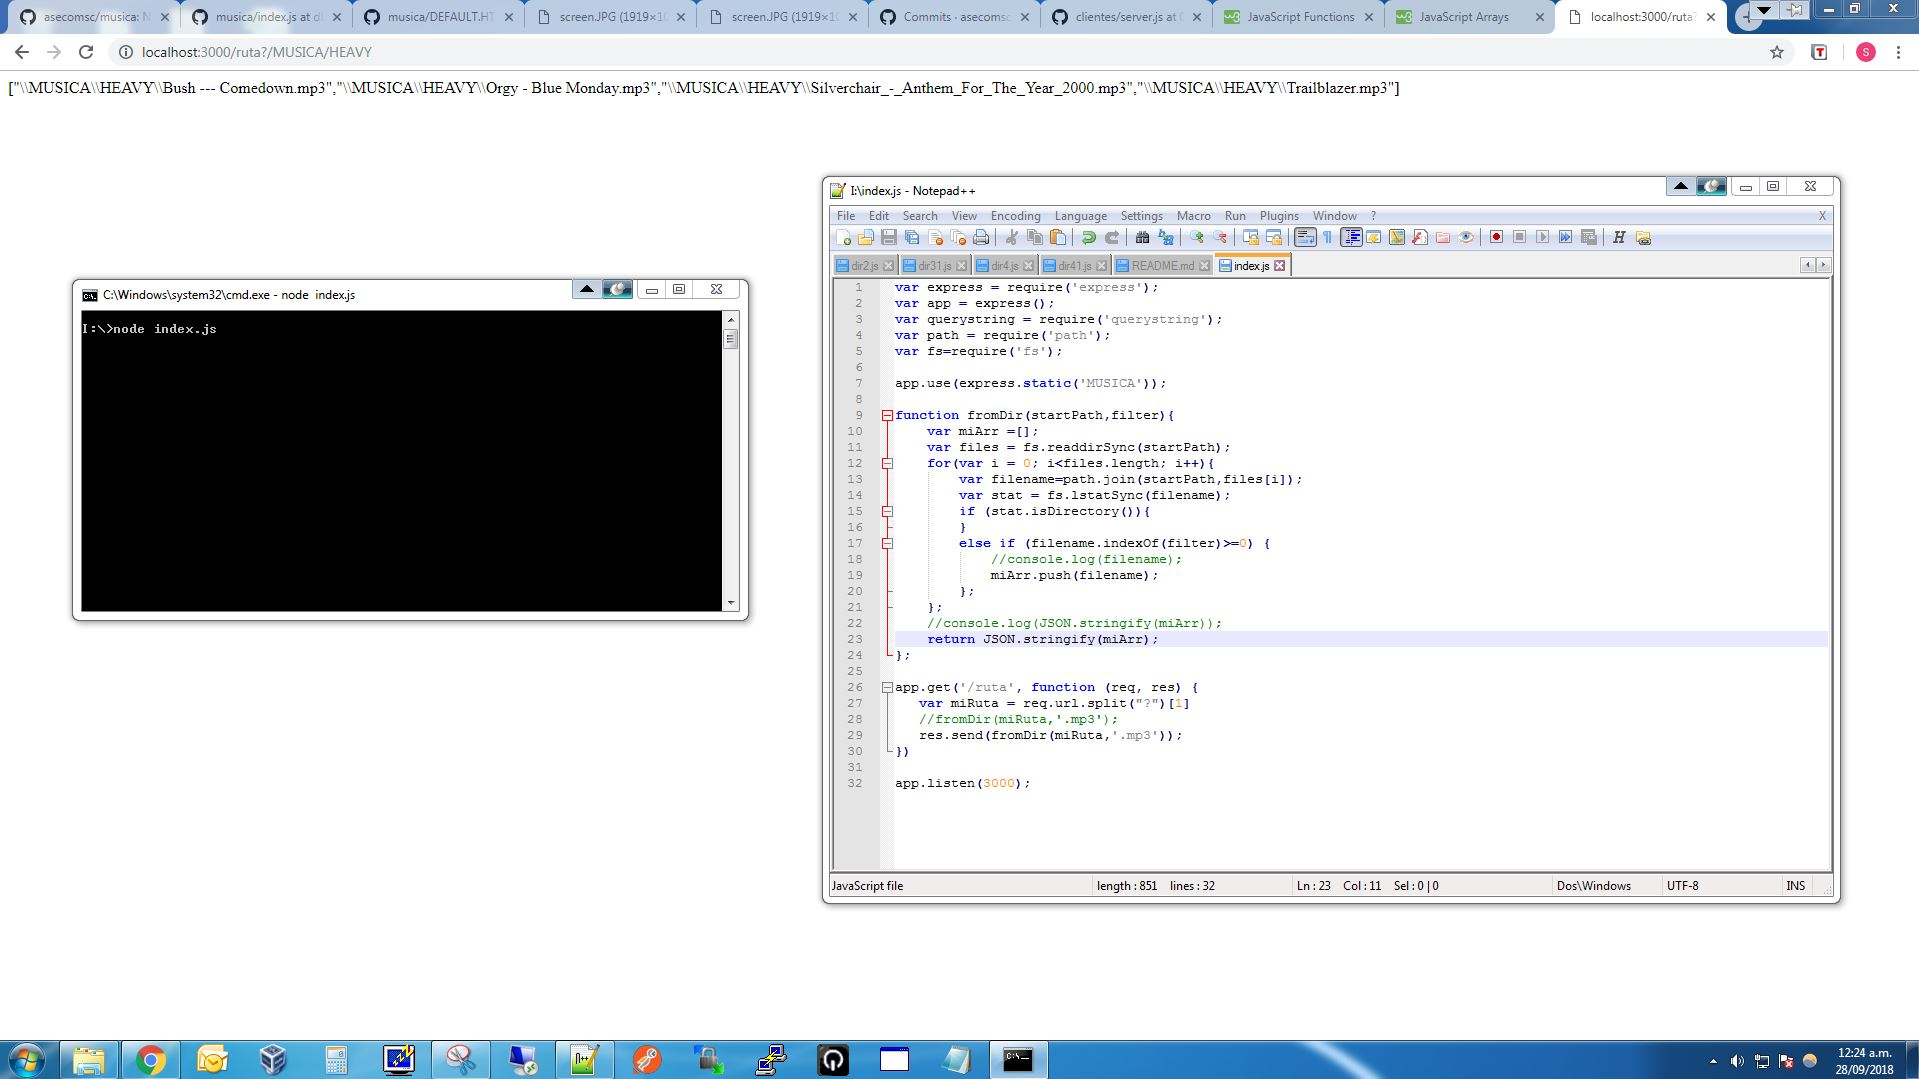
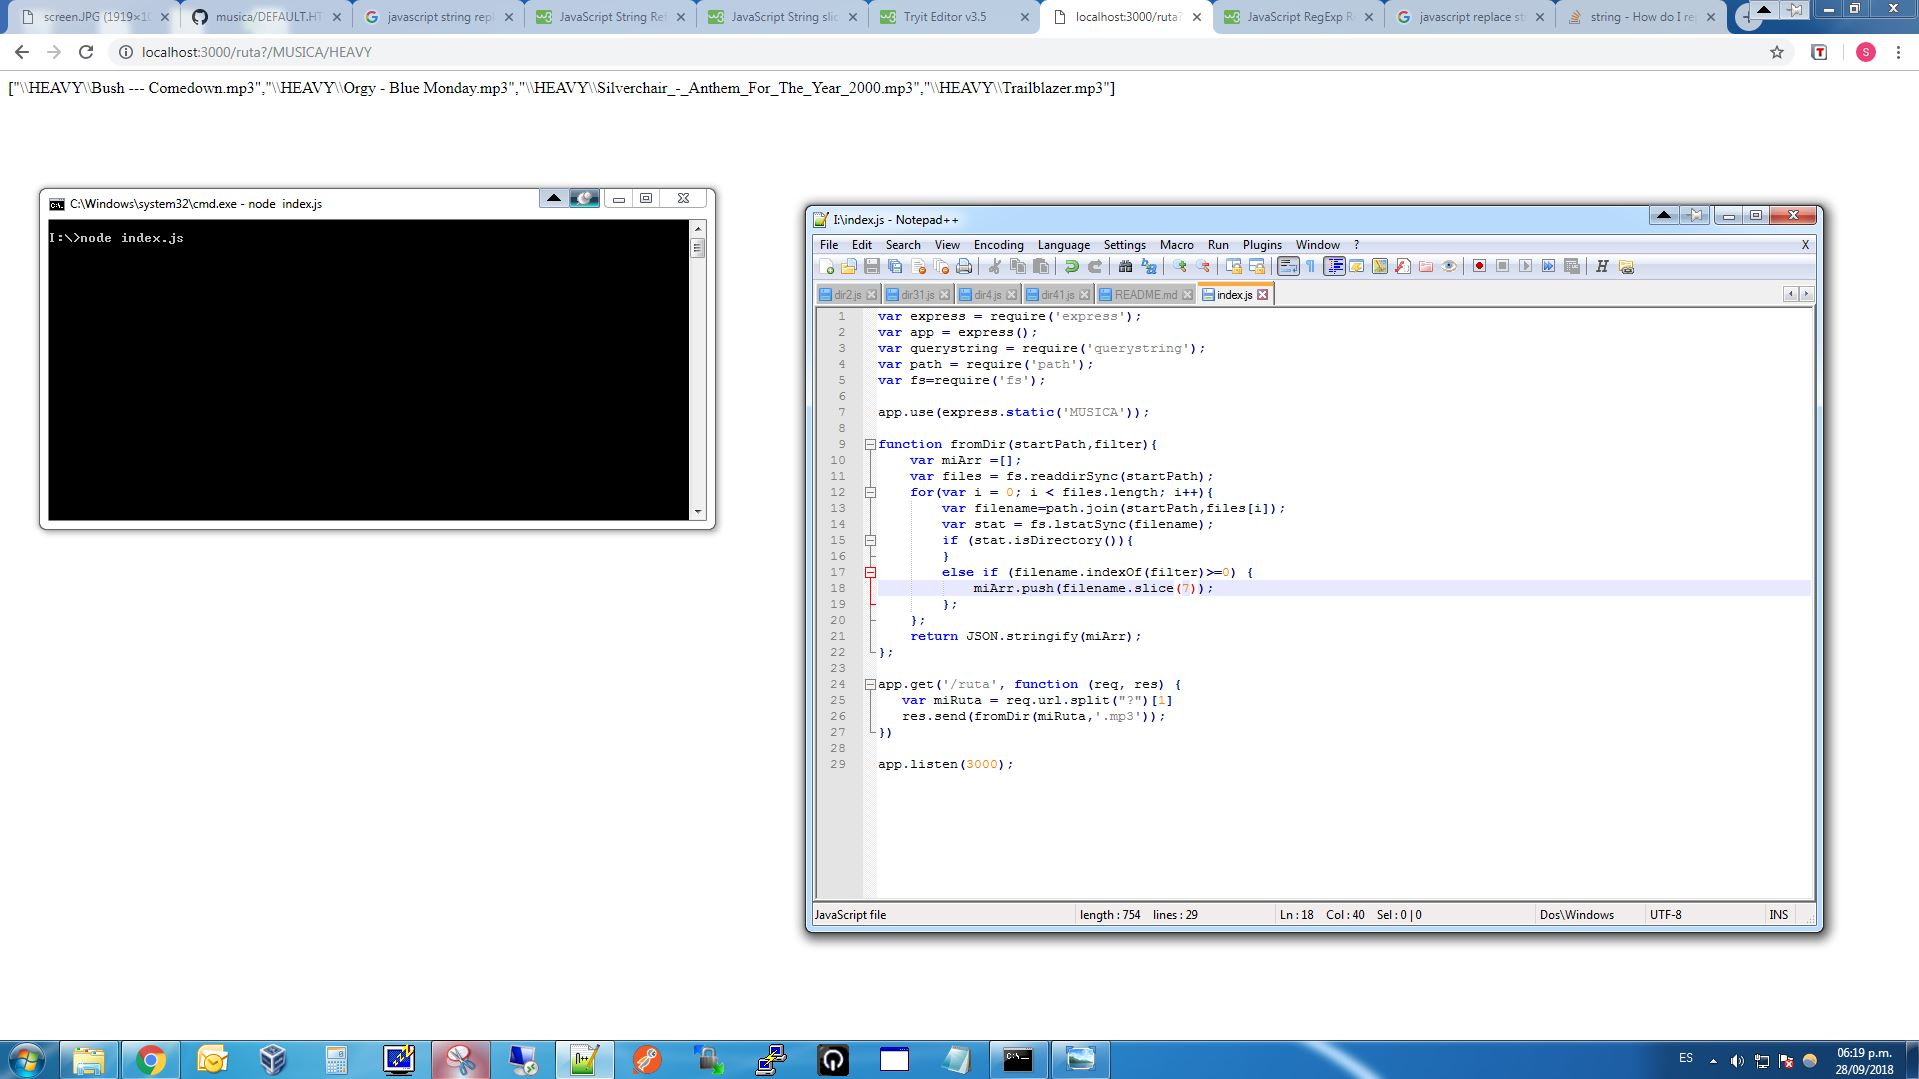
v1.3 node recibe /MUSICA/HEAVY y al final le quita /MUSICA

diff --git a/index.js b/index.js
@@ -9,23 +9,20 @@ app.use(express.static('MUSICA'));
 function fromDir(startPath,filter){
 	var miArr =[];
     var files = fs.readdirSync(startPath);
-    for(var i = 0; i<files.length; i++){
+    for(var i = 0; i < files.length; i++){
 		var filename=path.join(startPath,files[i]);
         var stat = fs.lstatSync(filename);
         if (stat.isDirectory()){
         }
         else if (filename.indexOf(filter)>=0) {
-            //console.log(filename);
-			miArr.push(filename);
+			miArr.push(filename.slice(7));
         };		
     };
-	//console.log(JSON.stringify(miArr));
 	return JSON.stringify(miArr);
 };
 
 app.get('/ruta', function (req, res) {
    var miRuta = req.url.split("?")[1]
-   //fromDir(miRuta,'.mp3');
    res.send(fromDir(miRuta,'.mp3'));
 })
 

diff --git a/README.md b/README.md
@@ -1,3 +1,6 @@
+## 2018-09-28
+* v1.3 url: localhost:3000/ruta?/MUSICA/HEAVY y node al final le quita del path /MUSICA
+
 ## 2018-09-18
 * v1.2 chrome receive in JSON
   
